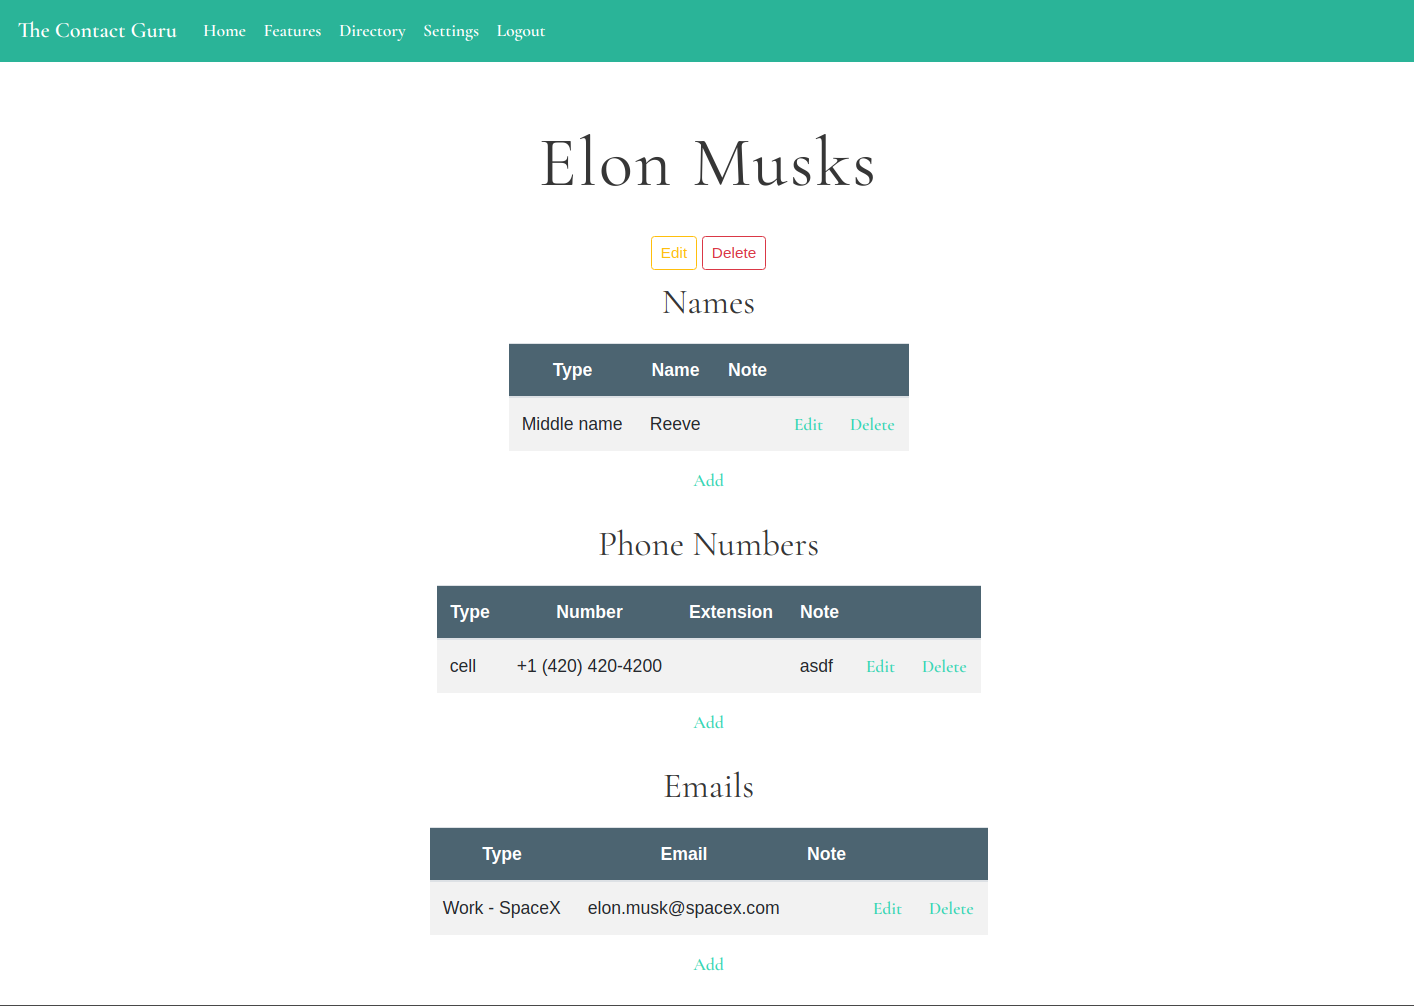
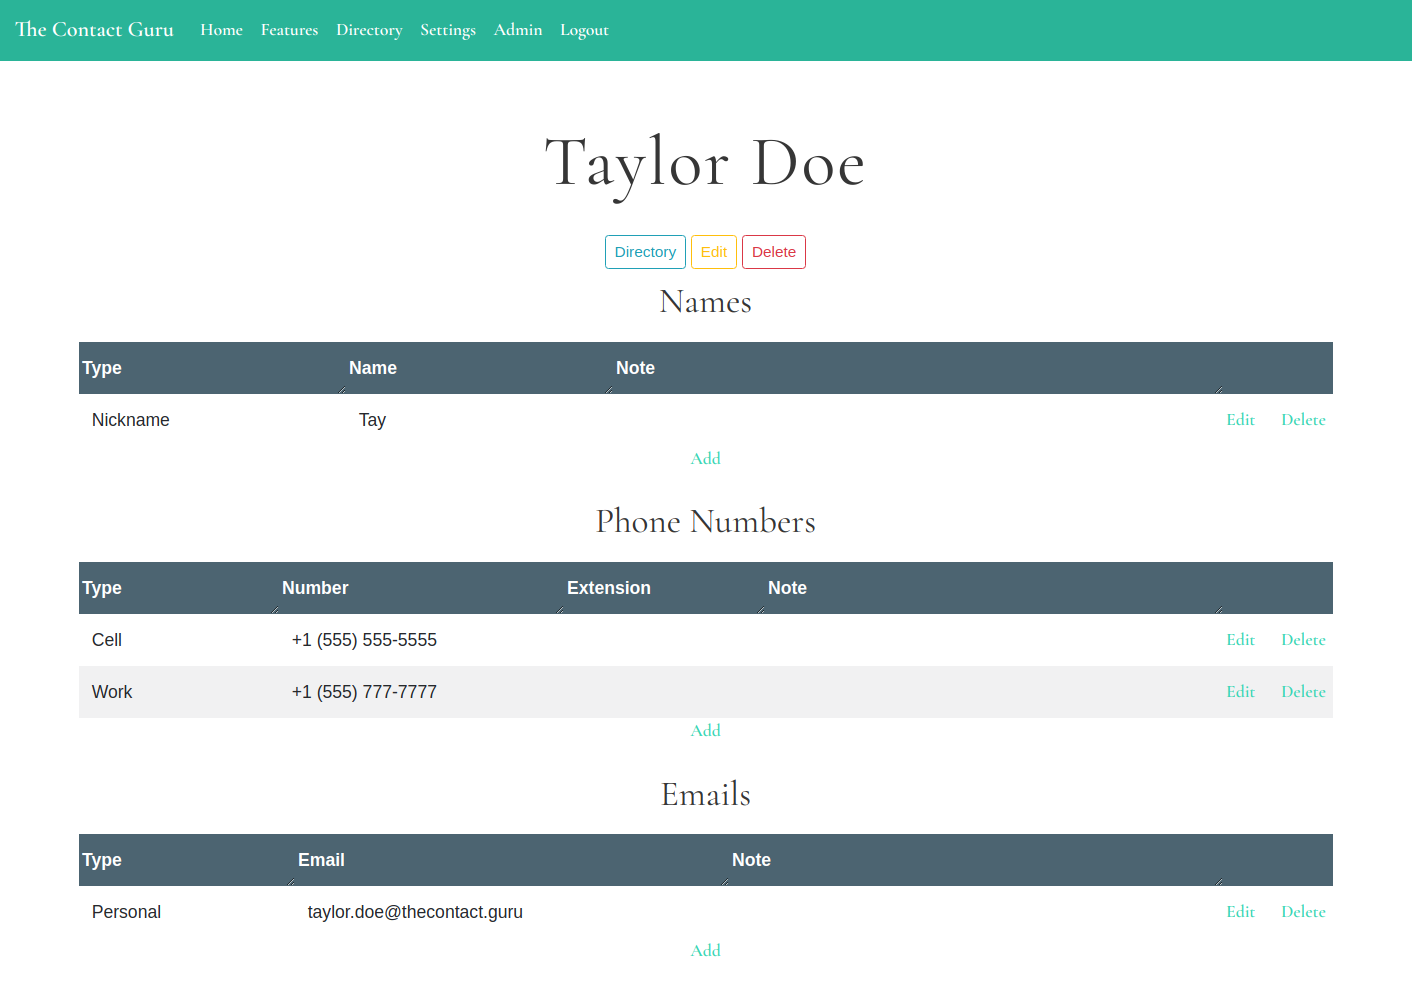
Add The Space Resource to the 12 startups post progress section
Updated the picture used for the contact guru

diff --git a/_posts/2018-12-06-12-Startups-in-12-Months.html b/_posts/2018-12-06-12-Startups-in-12-Months.html
@@ -36,11 +36,18 @@ tags: ["startup", "tech", "business"]
 <p>I'll be updating my progress here with links, pictures and descriptions of what I launch.</p>
 
 <ol>
-    <li><a href="https://thecontact.guru" taget="_blank">The Contact Guru</a></li>
-    <img src="{{ site.baseurl }}/assets/img/12startups/thecontactguru.png" alt="The Contact Guru contact page for Elon Musk">
-    <p><a href="https://thecontact.guru" taget="_blank">The Contact Guru</a> is your smart and secure contact manager, letting you track dozens of fields for each person.</p>
-    <br>
-    <li>?????</li>
+    <li>
+        <h3><a href="https://thecontact.guru" taget="_blank">The Contact Guru</a></h3>
+        <img src="{{ site.baseurl }}/assets/img/12startups/thecontactguru.png" alt="The Contact Guru contact page for a demo user">
+        <p><a href="https://thecontact.guru" target="_blank">The Contact Guru</a> is your smart and secure contact manager, letting you track dozens of fields for each person.</p>
+    </li>
+
+    <li>
+        <h3><a href="https://thespaceresource.com" target="_blank">The Space Resource</a></h3>
+        <img src="{{ site.baseurl }}/assets/img/12startups/thespaceresource.png" alt="The Space Resource news site for ISRU news, analysis, and discussion">
+        <p><a href="https://thespaceresource.com" target="_blank">The Space Resource</a> is a news website dedicated to sharing news, education, and discussion about utilizing resources in space, or in-situ space resources utilization (ISRU).</p>
+    </li>
+
     <li>?????</li>
     <li>?????</li>
     <li>?????</li>
